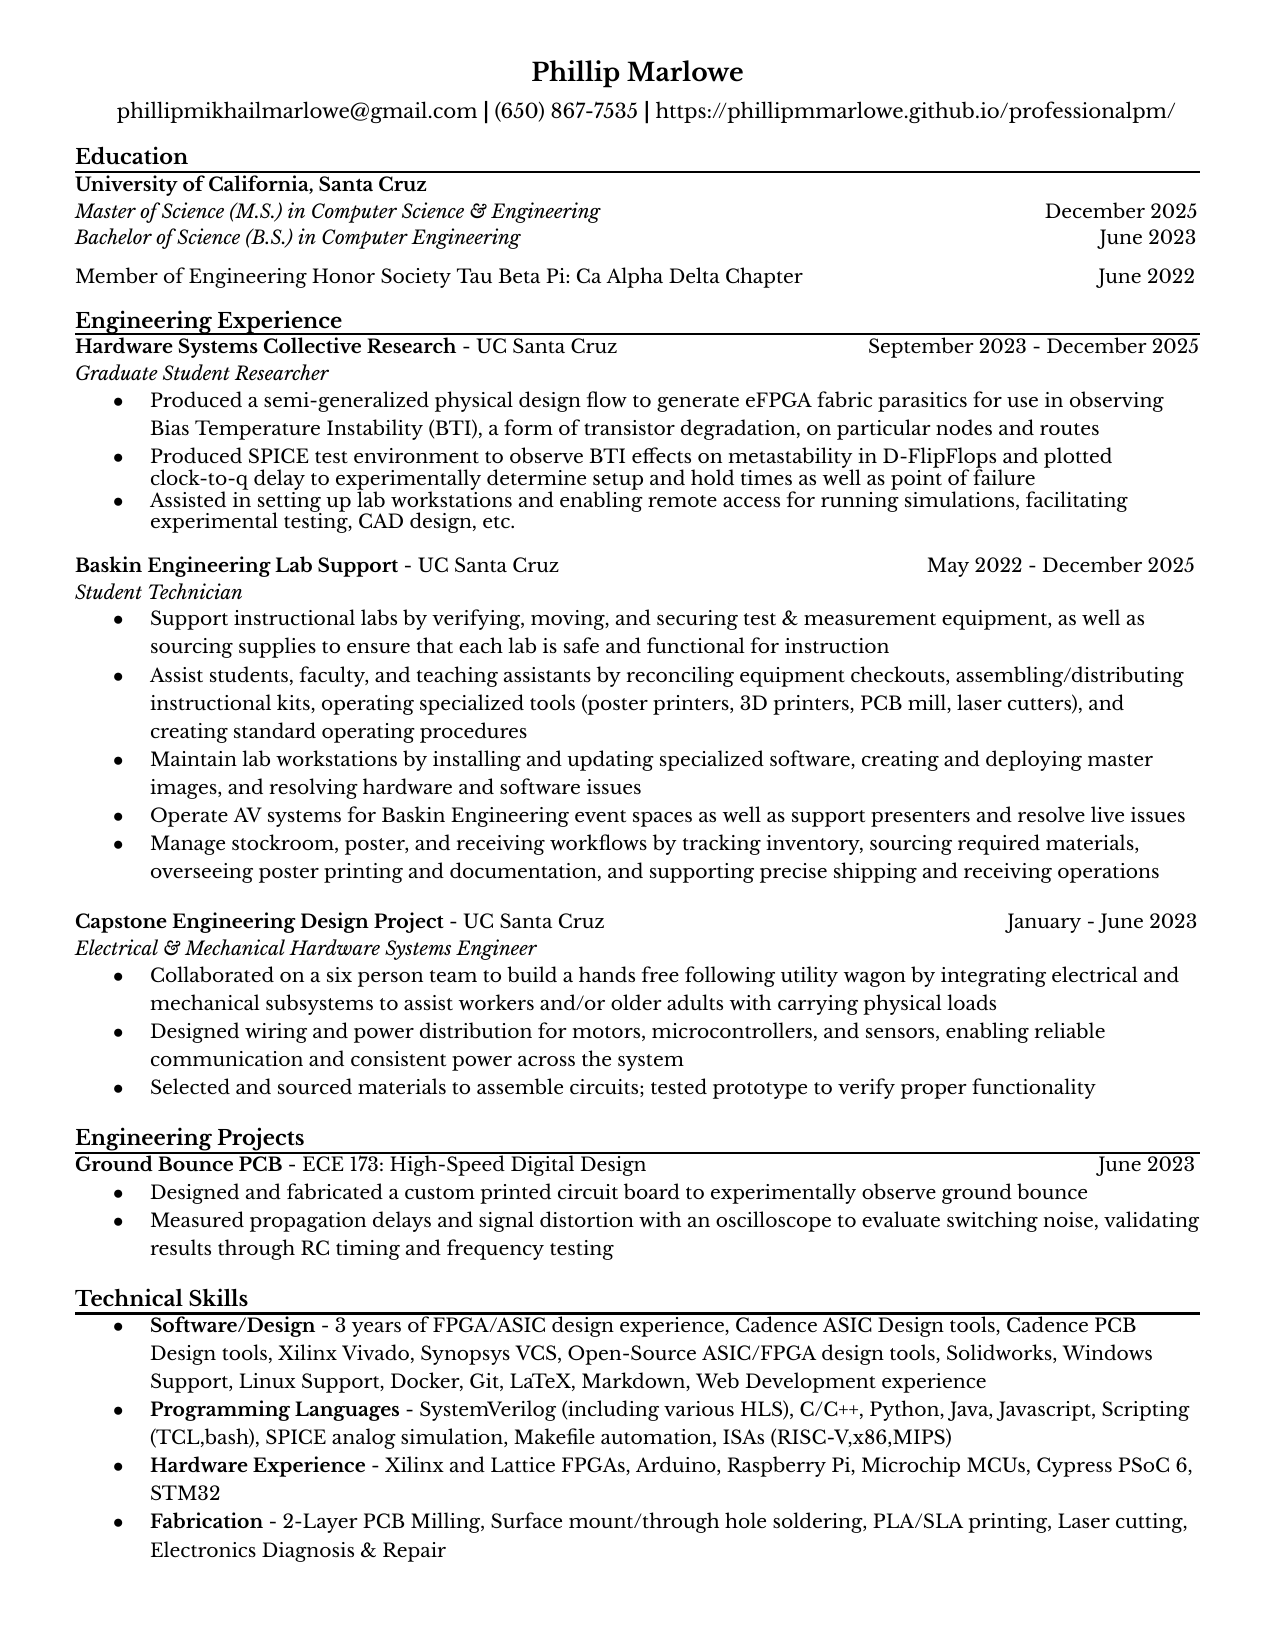
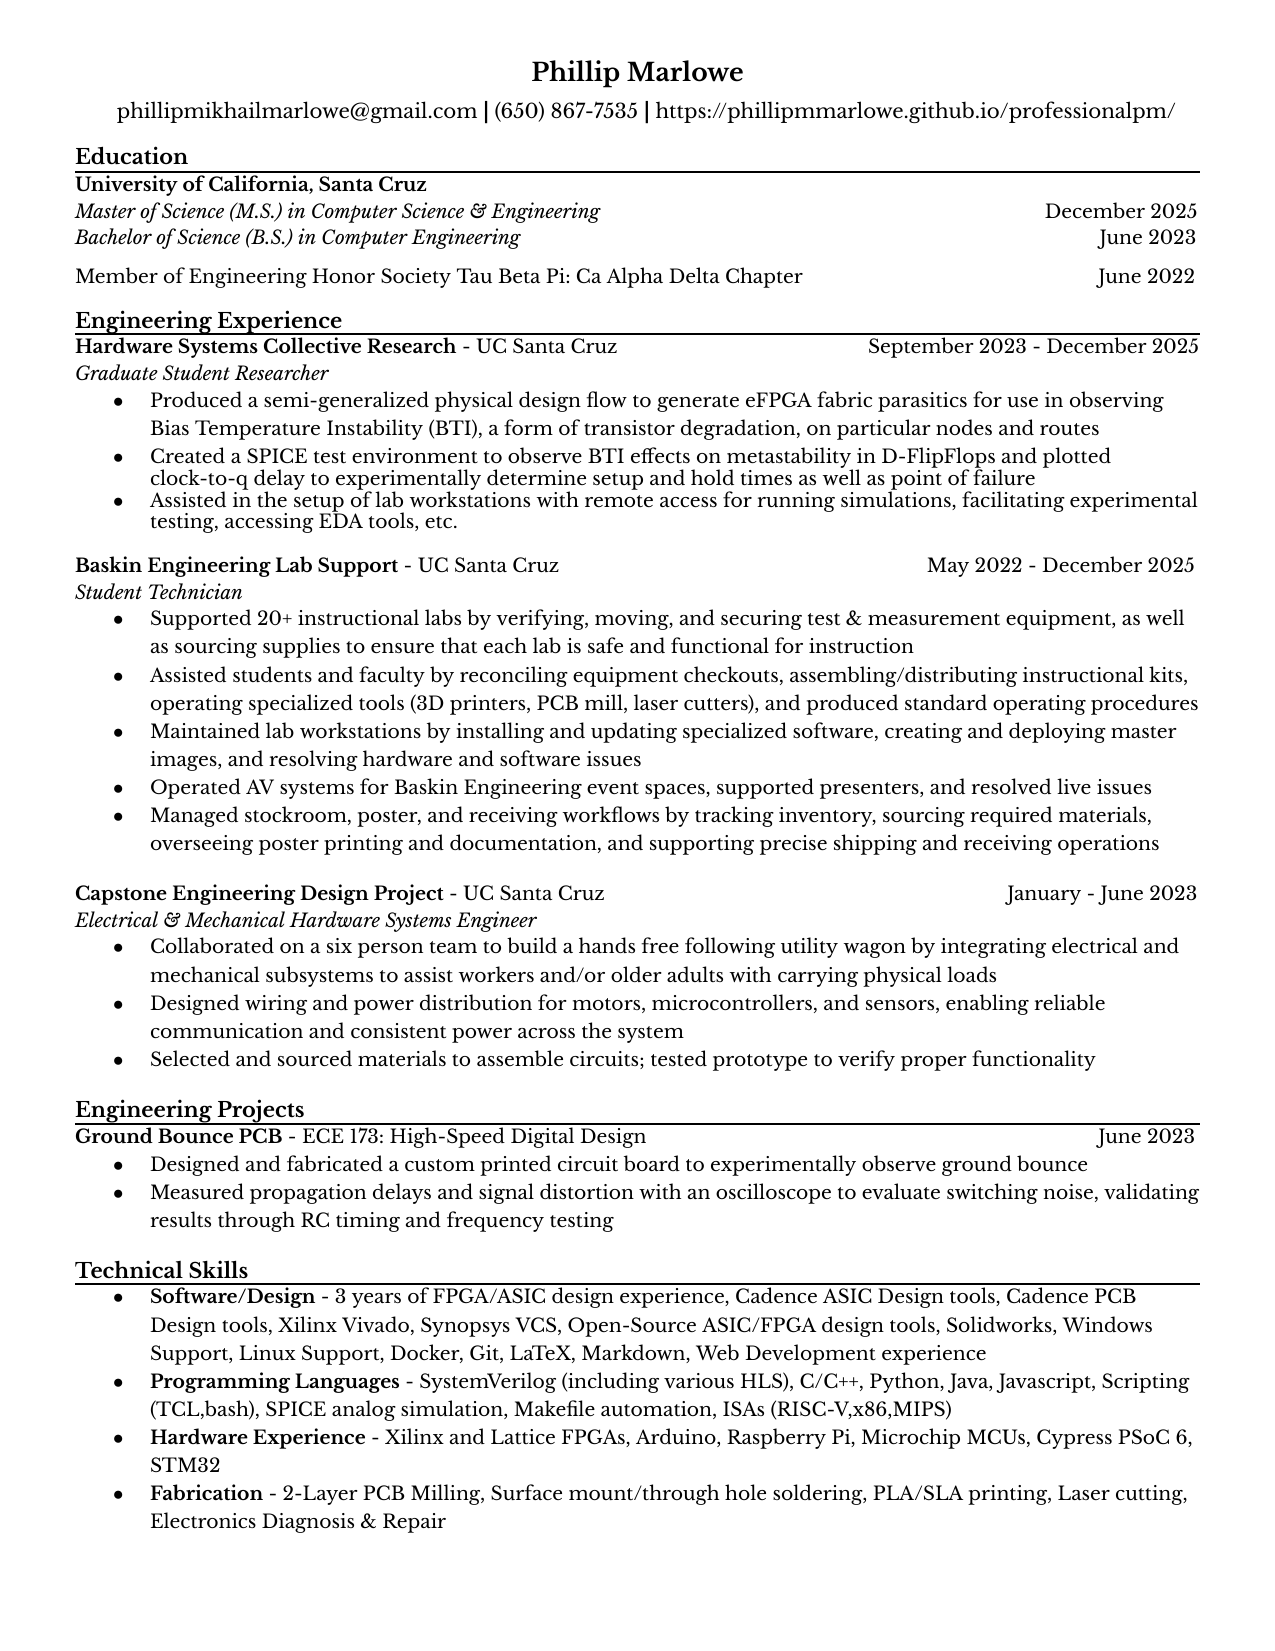
updated resume, and date pt2

Changed region(s): [[0.0612, 0.1855, 0.9482, 0.9582], [0.8259, 0.1855, 0.8565, 0.2164]]

diff --git a/content/projects/2-layer-pcb-prototype-milling.md b/content/projects/2-layer-pcb-prototype-milling.md
@@ -1,6 +1,6 @@
 ---
 title: "2‑Layer PCB Prototype Milling"
-date: 2026-02-24T13:00:00+00:00
+date: 02-24-2024
 tags: ["pcb", "milling", "prototyping"]
 summary: "Notes and photos from milling a 2‑layer PCB prototype."
 images:
